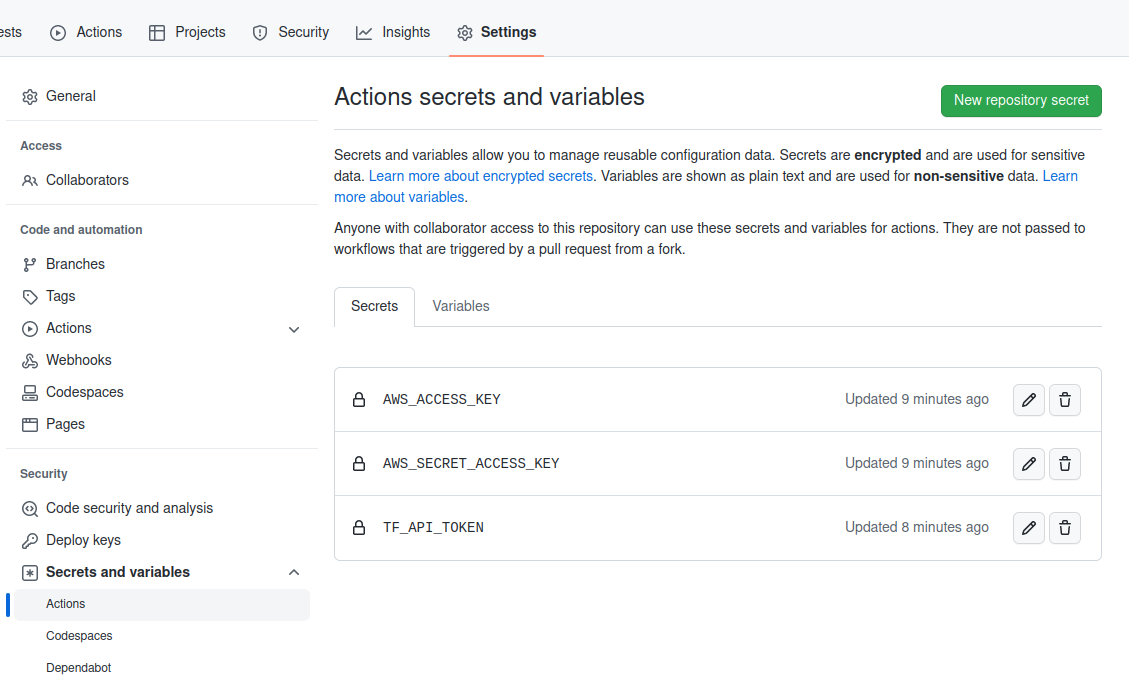
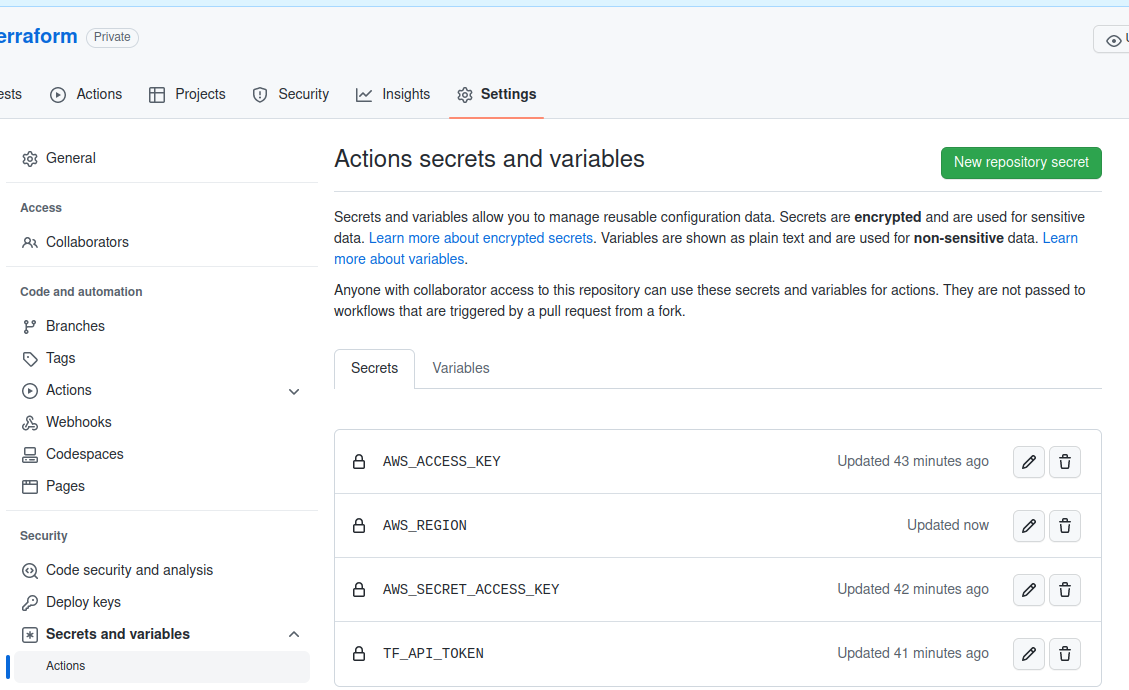
Make AWS_REGION mandatory

diff --git a/docs/1_pre-requisites.md b/docs/1_pre-requisites.md
@@ -112,7 +112,7 @@ The terraform cloud api token generated from [Terraform Cloud configuration](#te
 
 
 ### AWS_REGION <!-- eu-west-1 -->
-<span style="color:green">OPTIONAL</span> *default to <ins>eu-west-1</ins>*
+<span style="color:red">REQUIRED</span> <!-- *default to <ins>eu-west-1</ins>* -->
 
 Choose the region in which you want your ressources to be deployed into. 
 Some regions are listed [here](https://docs.aws.amazon.com/general/latest/gr/rande.html) under "Regional endpoints". 
